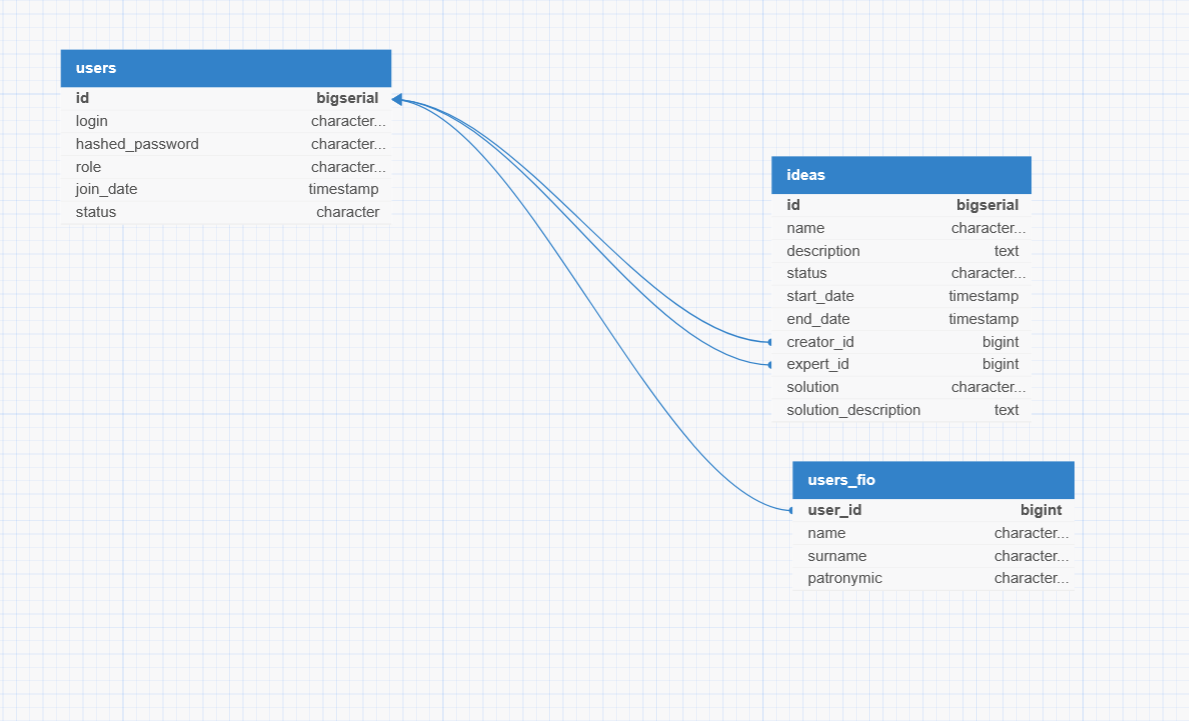
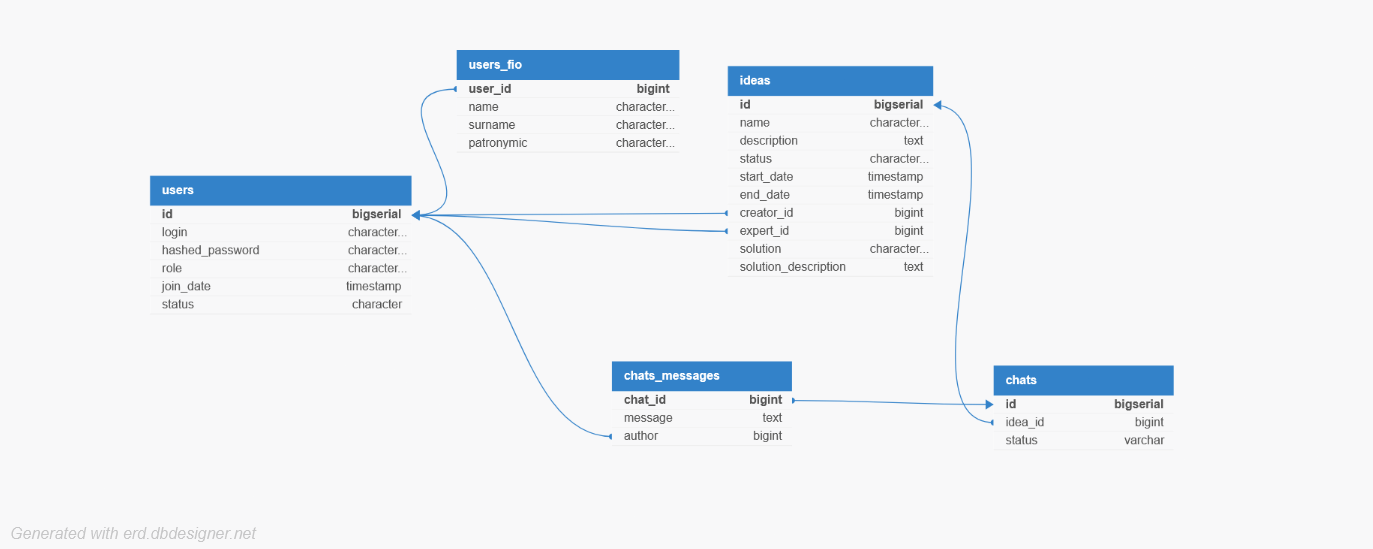
initialize chat service

Changed region(s): [[0.0311, 0.0619, 0.8713, 0.5883], [0.4357, 0.6193, 0.9024, 0.8361], [0.0, 0.9599, 0.1867, 0.9909]]

diff --git a/backend/src/core/db_tables.py b/backend/src/core/db_tables.py
@@ -3,7 +3,13 @@ from sqlalchemy.orm import declarative_base
 
 Base = declarative_base()
 
+class UsersFio(Base):
+    __tablename__ = 'users_fio'
 
+    user_id = Column(BigInteger, primary_key=True, unique=True)
+    name = Column(String)
+    surname = Column(String)
+    patronymic = Column(String)
 
 
 class Ideas(Base):
@@ -20,7 +26,6 @@ class Ideas(Base):
     solution = Column(String)
     solution_description = Column(Text)
 
-
 class Users(Base):
     __tablename__ = 'users'
 
@@ -30,10 +35,17 @@ class Users(Base):
     role = Column(String)
     status = Column(String)
 
-class UsersFio(Base):
-    __tablename__ = 'users_fio'
 
-    user_id = Column(BigInteger, primary_key=True, unique=True)
-    name = Column(String)
-    surname = Column(String)
-    patronymic = Column(String)
+class Chats(Base):
+    __tablename__ = 'chats'
+
+    id = Column(BigInteger, primary_key=True, autoincrement=True, unique=True)
+    idea_id = Column(BigInteger, unique=True)
+    status = Column(String)
+
+class ChatsMessages(Base):
+    __tablename__ = 'chats_messages'
+
+    chat_id = Column(BigInteger, primary_key=True)
+    message = Column(Text)
+    author_id = Column(BigInteger)

diff --git a/backend/src/idea/router.py b/backend/src/idea/router.py
@@ -107,7 +107,7 @@ async def complete_idea(
         creds: IdeaCompleteScheme,
         token_payload: TokenPayload = Depends(get_payload_by_access_token),
         session: AsyncSession = Depends(db_helper.get_async_session)
-) -> JSONResponse:
+)-> JSONResponse:
     if await get_user_status(session=session,uid=int(token_payload.sub)) != 'active':
         raise HTTPException(status_code=status.HTTP_403_FORBIDDEN)
     if await get_user_role(session=session,uid=int(token_payload.sub)) not in ['expert', 'admin']:
@@ -123,6 +123,5 @@ async def complete_idea(
         session=session,
         idea_id=id,
         creds=creds,
-        end_date=await get_current_ekb_time()
-    )
+        end_date=await get_current_ekb_time())
     return {'message': 'idea closed'}

diff --git a/backend/src/idea/db.py b/backend/src/idea/db.py
@@ -3,7 +3,6 @@ from typing import List
 
 from sqlalchemy import select, text, insert, update
 from sqlalchemy.ext.asyncio import AsyncSession
-from starlette.responses import JSONResponse
 
 from backend.src.core.db_tables import Ideas
 
@@ -33,7 +32,7 @@ async def insert_new_idea(
 async def get_idea(
         id: int,
         session: AsyncSession
-) -> JSONResponse:
+) -> IdeaGetScheme:
     result = await session.execute(
         select(Ideas)
         .where(Ideas.id == id))

diff --git a/backend/src/core/config.py b/backend/src/core/config.py
@@ -15,6 +15,7 @@ class DataBaseSettings(BaseSettings):
 class RoutersPrefix(BaseSettings):
     auth: str
     idea: str
+    chat: str
 
 class Settings(BaseSettings):
     SERVER_START_TIME: int
@@ -47,6 +48,7 @@ settings = Settings(
     routers=RoutersPrefix(
         auth='/v1/api/auth',
         idea='/v1/api/idea',
+        chat='/v1/api/chat'
     ),
     jwt=AuthXConfig(
         JWT_ACCESS_TOKEN_EXPIRES=timedelta(minutes=30),

diff --git a/backend/src/chat/db.py b/backend/src/chat/db.py
@@ -1,0 +1,11 @@
+from typing import List
+
+from sqlalchemy import insert, select, update
+from sqlalchemy.ext.asyncio import AsyncSession
+
+
+
+async def get_all_chats(
+        session: AsyncSession,
+        uid: int
+) -> List[ChatGetScheme]:

diff --git a/backend/src/chat/router.py b/backend/src/chat/router.py
@@ -1,0 +1,9 @@
+from fastapi import APIRouter
+
+from backend.src.core.config import settings
+
+router = APIRouter(
+    tags=['chat'],
+    prefix=settings.routers.chat
+)
+

diff --git a/backend/src/chat/models.py b/backend/src/chat/models.py
@@ -1,0 +1,6 @@
+from pydantic import BaseModel
+
+class ChatGetScheme(BaseModel):
+    id: int
+    idea_id: int
+    status: str
